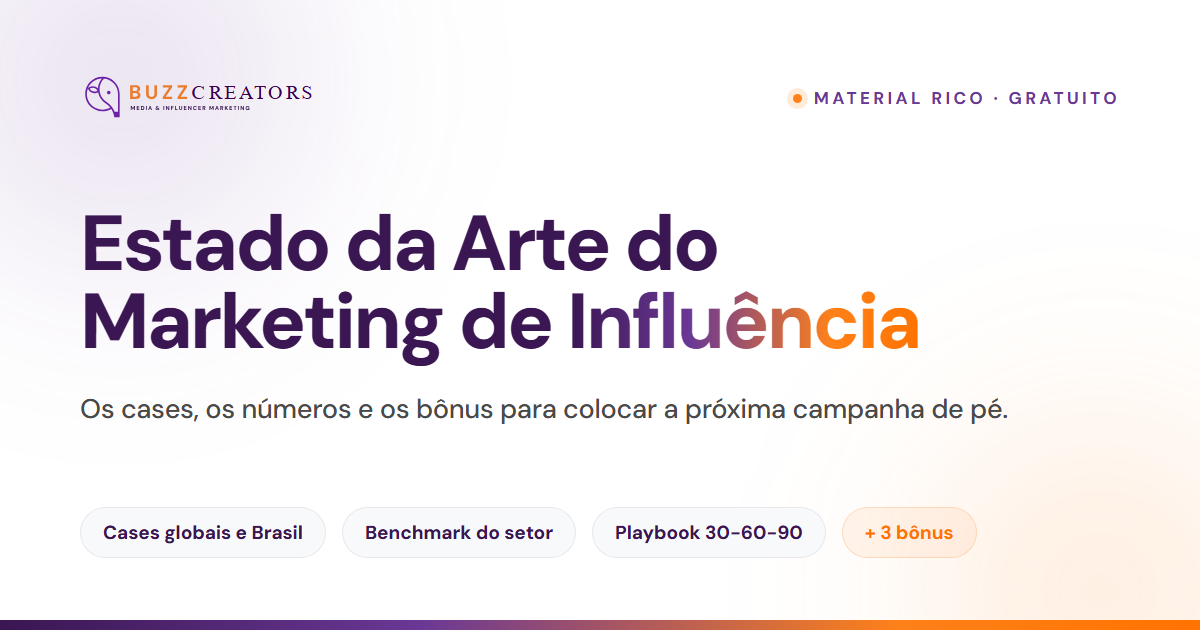
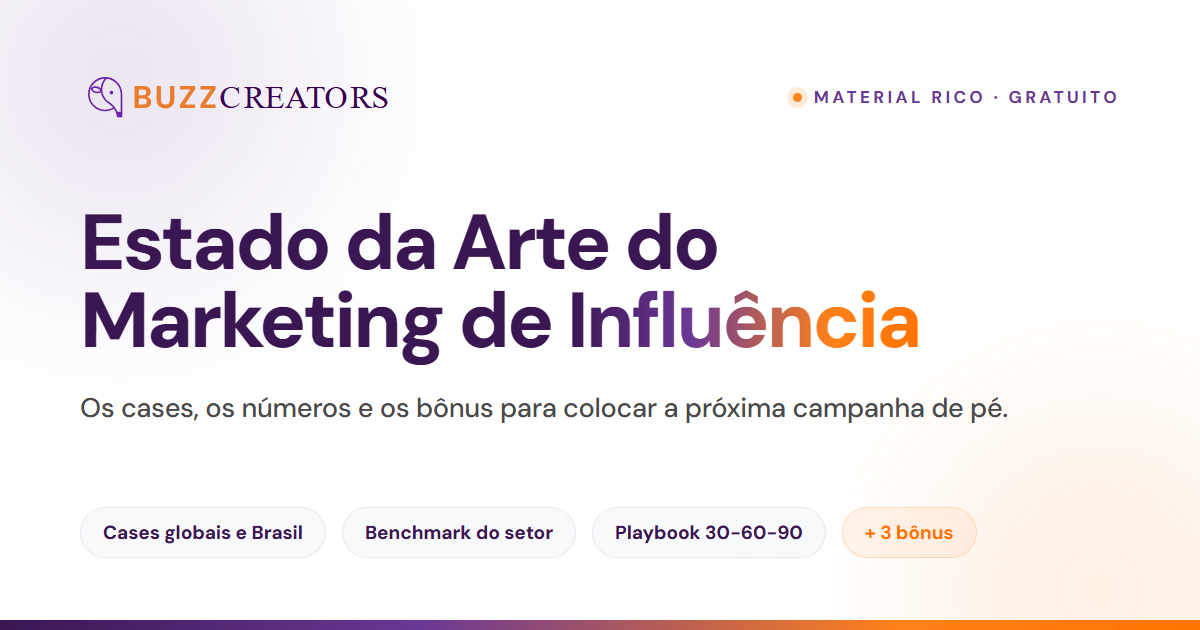
Corrigir logomarca da LP estado-arte-influencia para o lockup limpo
Header passa de logo-full-color (com tagline "Media & Influencer Marketing")
para logo-color; footer de logo-full-white para logo-white. Mesma identidade
limpa que as outras LPs Buzzcreators usam no header. OG image regerada com o
logo limpo. Remove os SVGs full-* que ficaram orfaos.

diff --git a/landing-pages/buzzcreators/buzzcreators-estado-arte-influencia/index.html b/landing-pages/buzzcreators/buzzcreators-estado-arte-influencia/index.html
@@ -1116,7 +1116,7 @@
 <header class="site-header" role="banner">
   <div class="container">
     <a href="https://buzzcreators.com.br" target="_blank" rel="noopener" aria-label="Buzzcreators: página inicial">
-      <img class="brand-logo" src="./assets/logo-full-color.svg" alt="Buzzcreators" />
+      <img class="brand-logo" src="./assets/logo-color.svg" alt="Buzzcreators" />
     </a>
     <a class="header-cta" href="#form">Quero o material</a>
   </div>
@@ -1406,7 +1406,7 @@
 <footer class="site-footer" role="contentinfo">
   <div class="container">
     <a href="https://buzzcreators.com.br" target="_blank" rel="noopener" aria-label="Buzzcreators: página inicial">
-      <img class="footer-logo" src="./assets/logo-full-white.svg" alt="Buzzcreators · Media & Influencer Marketing" />
+      <img class="footer-logo" src="./assets/logo-white.svg" alt="Buzzcreators · Media & Influencer Marketing" />
     </a>
     <div class="footer-divider" aria-hidden="true"></div>
     <p class="footer-text">&copy; 2026 Buzzcreators &middot; Media &amp; Influencer Marketing &middot; <a href="mailto:comercial@buzzcreators.com.br">comercial@buzzcreators.com.br</a></p>
